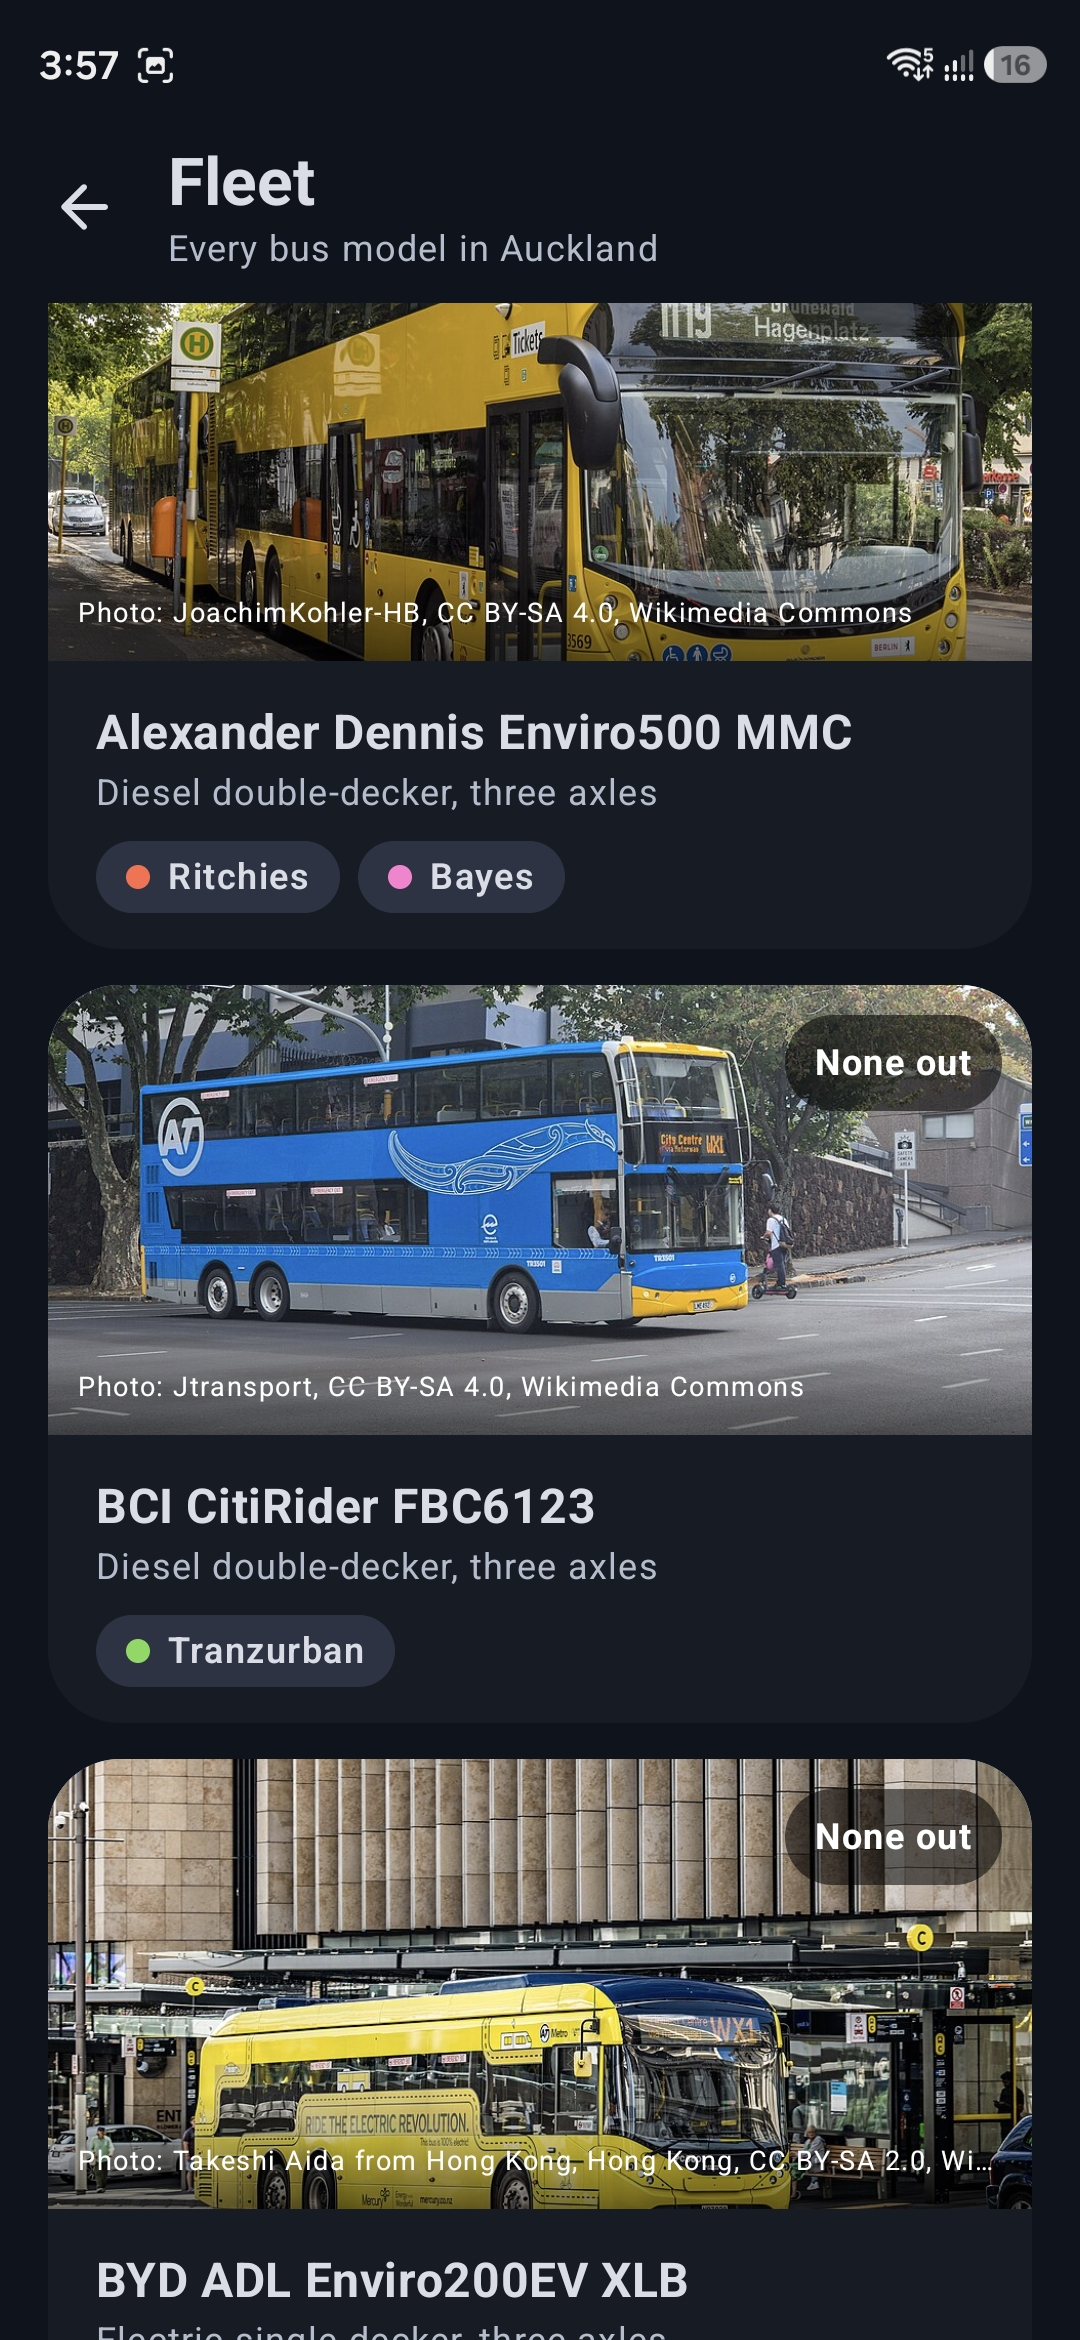
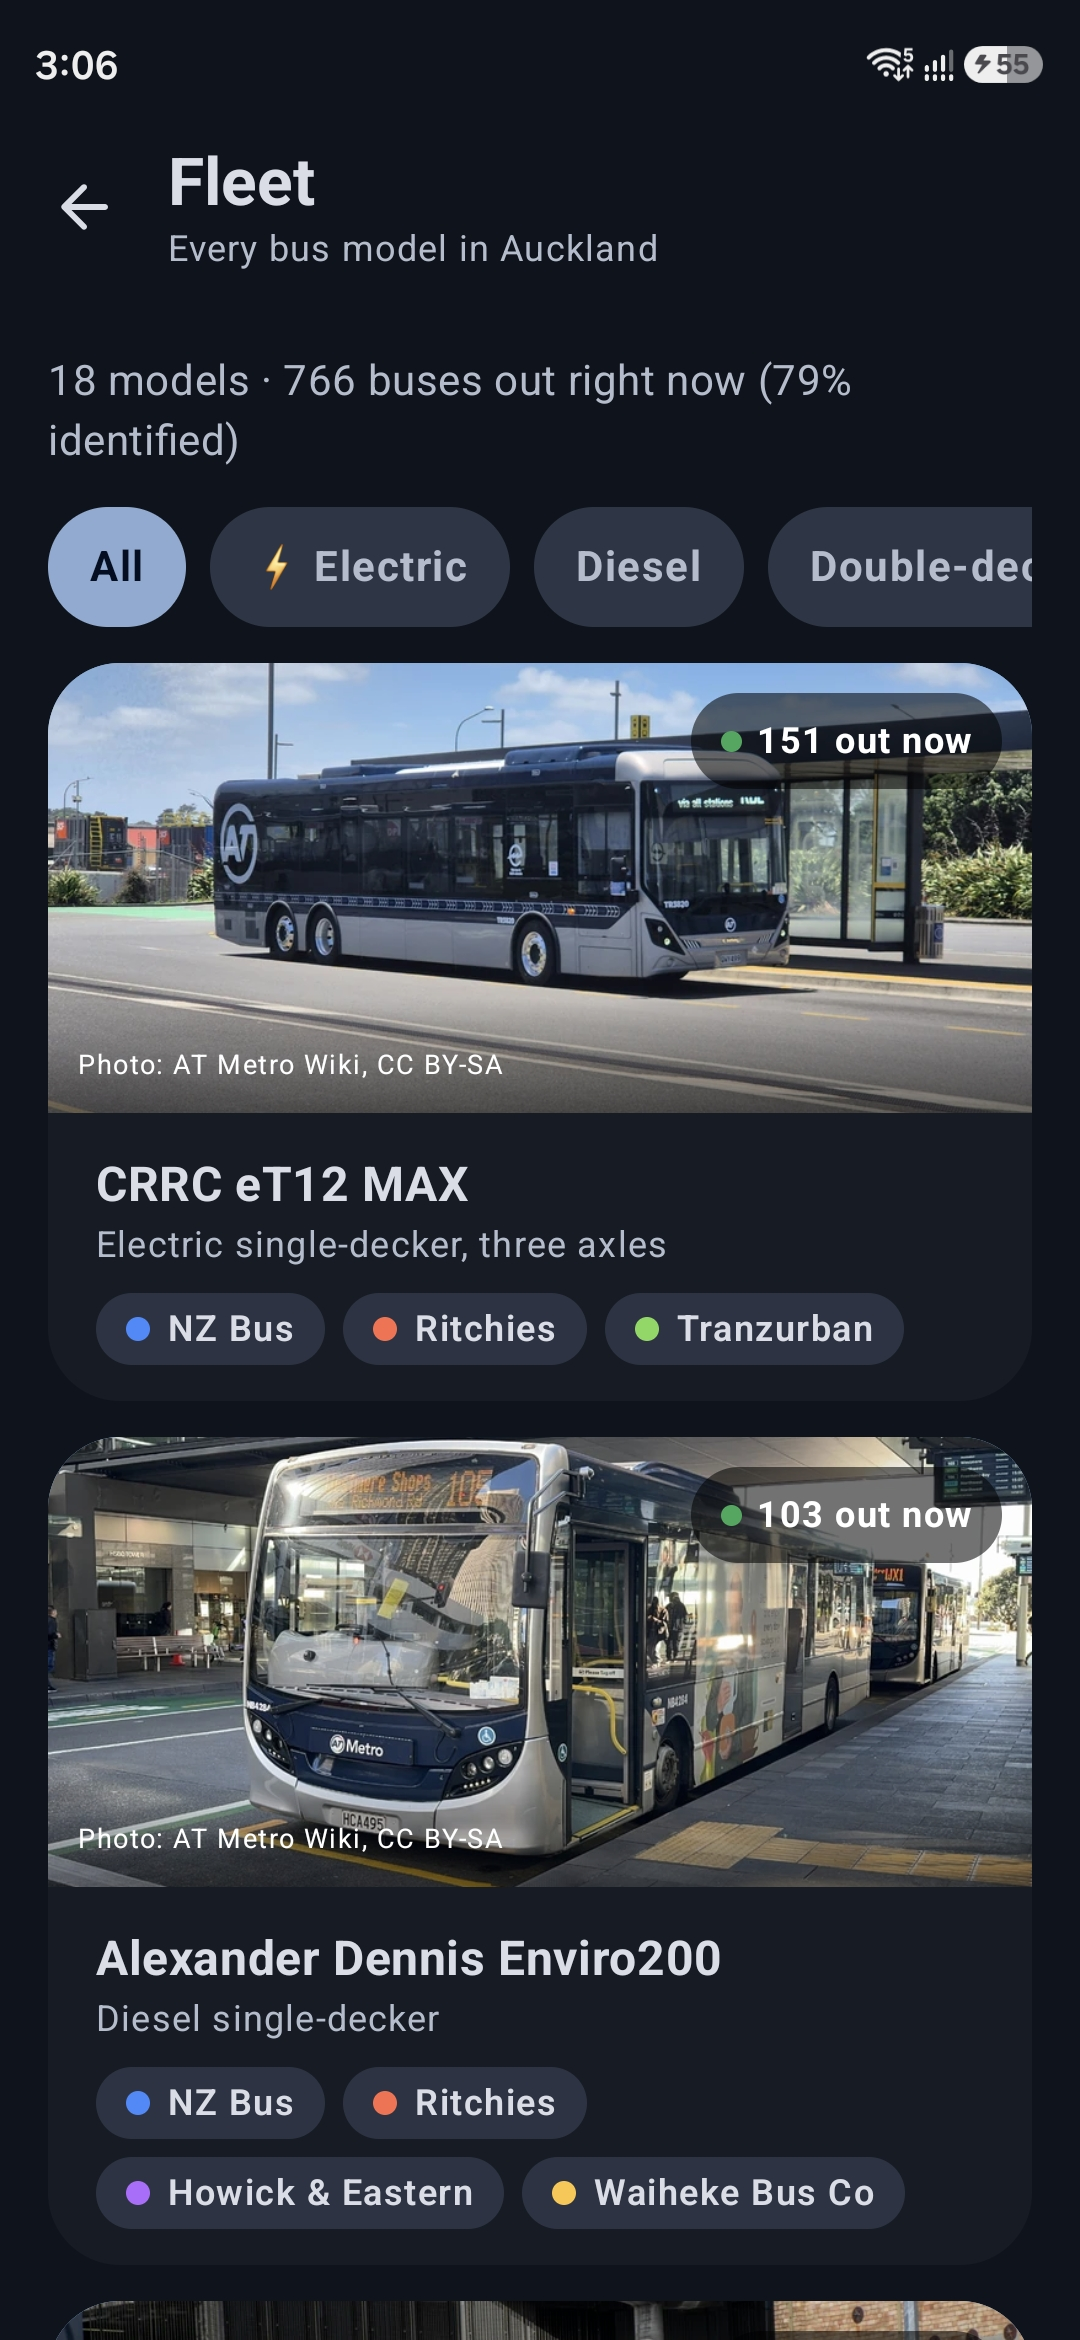
README: new Fleet screenshots with the AT Metro Wiki photos
Claude-Session: https://claude.ai/code/session_011C2fAvFFcMRkaF7qSvRA1v

diff --git a/README.md b/README.md
@@ -78,16 +78,18 @@ Hillsborough, both directions (stop 8669 to Britomart, 8664 to Waikowhai).
 ## Bus spotting
 
 <p align="center">
-  <img src="docs/screenshots/fleet.jpg" width="30%" alt="Fleet: every bus model, with real photos">
-  <img src="docs/screenshots/model.jpg" width="30%" alt="A model's page: what it is, its fleet numbers, where they are now">
-  <img src="docs/screenshots/dex.jpg" width="30%" alt="The fleet dex: models you've spotted, and the mysteries">
+  <img src="docs/screenshots/fleet.jpg" width="23%" alt="Fleet: the CRRC eT12 MAX and Enviro200, with photos from the AT Metro Wiki">
+  <img src="docs/screenshots/fleet-2.jpg" width="23%" alt="Fleet: the CRRC eS12 MAX on the Inner Link and the Geely C13E">
+  <img src="docs/screenshots/model.jpg" width="23%" alt="A model's page: what it is, its fleet numbers, where they are now">
+  <img src="docs/screenshots/dex.jpg" width="23%" alt="The fleet dex: models you've spotted, and the mysteries">
 </p>
-<p align="center"><sub>Fleet · A model's page · Fleet dex</sub></p>
+<p align="center"><sub>Fleet · More of the fleet · A model's page · Fleet dex</sub></p>
 
 - **Fleet**: every bus model in Auckland with a real photo (from its
   [AT Metro Wiki](https://atmetro.fandom.com) page, credited on each), how
-  many are out right now, and who runs them. The photos are saved on the
-  phone, and the bus coming to your stop shows its photo too.
+  many are out right now, and who runs them. The photos download once in the
+  background and stay on the phone, so they show instantly (and offline)
+  after that. The bus coming to your stop shows its photo too.
 - **A model's page**: specs, a short history, the fleet numbers each operator
   uses, and a live map of every one of them on the road.
 - **Fleet dex**: every model that pulls up at your Home stops gets spotted and
